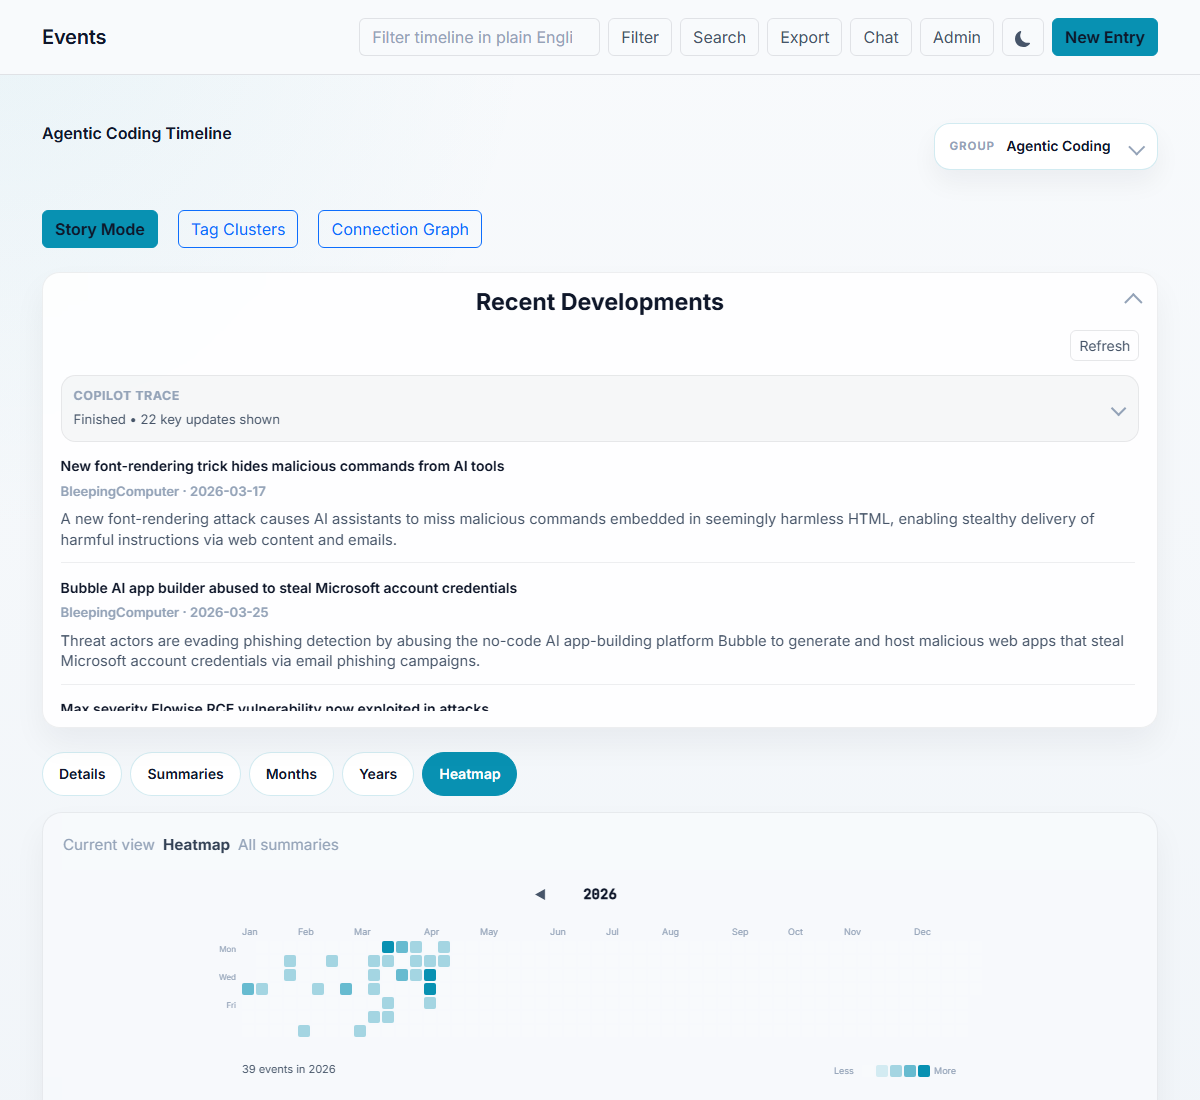
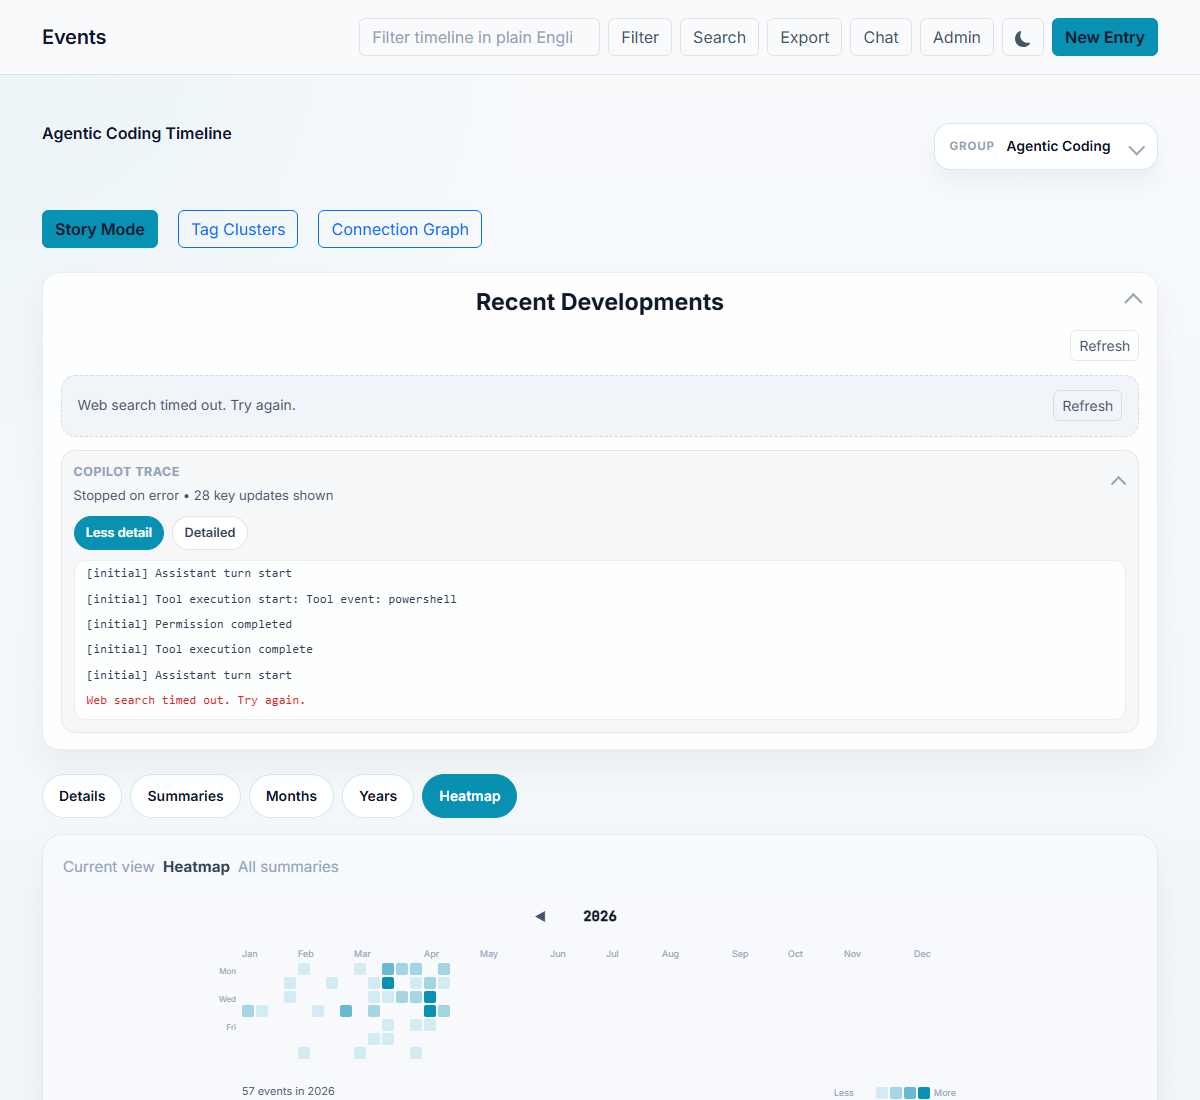
Refactor code structure for improved readability and maintainability

diff --git a/scripts/generate_demo_assets.py b/scripts/generate_demo_assets.py
@@ -67,6 +67,7 @@ FULL_FRAME_NAMES = [
     "18-dark-mode.png",
     "19-story-mode-screen.png",
     "20-story-generated.png",
+    "21-story-presentation-option.png",
 ]
 NO_SEARCH_FRAME_NAMES = [
     "01-home.png",
@@ -86,6 +87,7 @@ NO_SEARCH_FRAME_NAMES = [
     "18-dark-mode.png",
     "19-story-mode-screen.png",
     "20-story-generated.png",
+    "21-story-presentation-option.png",
 ]
 
 
@@ -142,11 +144,17 @@ def wait_for_recent_results(page: Page, timeout_seconds: int = 120) -> None:
     deadline = time.monotonic() + timeout_seconds
     results = page.locator("[data-group-web-search-results] a")
     loading = page.locator("[data-group-web-search-loading]")
+    error = page.locator("[data-group-web-search-error]")
+    empty = page.locator("[data-group-web-search-empty]")
     while time.monotonic() < deadline:
-        if results.count() > 0 and not loading.is_visible():
+        if not loading.is_visible() and (
+            results.count() > 0
+            or error.is_visible()
+            or empty.is_visible()
+        ):
             return
         page.wait_for_timeout(1_000)
-    raise TimeoutError("Timed out waiting for Recent Developments results.")
+    raise TimeoutError("Timed out waiting for Recent Developments to settle.")
 
 
 def wait_for_generated_summary(page: Page, timeout_seconds: int = 120) -> None:
@@ -366,6 +374,12 @@ def capture_assets(page: Page, base_url: str, output_dir: Path) -> list[Path]:
     # 20 - Story generated
     page.locator("[data-story-generate-button]").click(no_wait_after=True)
     wait_for_story_result(page)
+    page.wait_for_timeout(500)
+    save_screenshot(page, output_paths[idx]); idx += 1
+
+    # 21 - Generate presentation option
+    story_deck_cta = page.locator("[data-story-deck-cta]")
+    story_deck_cta.scroll_into_view_if_needed()
     page.wait_for_timeout(500)
     save_screenshot(page, output_paths[idx]); idx += 1
 

diff --git a/tests/test_ai_generate.py b/tests/test_ai_generate.py
@@ -73,6 +73,18 @@ class _FakeCopilotSession:
         self.closed = True
 
 
+class _FakeModernCopilotSession:
+    def __init__(self, response: object) -> None:
+        self.response = response
+        self.prompts: list[str] = []
+        self.timeouts: list[float] = []
+
+    async def send_and_wait(self, prompt: str, *, timeout: float = 60.0) -> object:
+        self.prompts.append(prompt)
+        self.timeouts.append(timeout)
+        return self.response
+
+
 class _FakeDisconnectOnlySession:
     def __init__(self) -> None:
         self.disconnected = False
@@ -387,6 +399,21 @@ class TestCopilotSdkWrapper(unittest.TestCase):
         _run_async(exercise())
 
         self.assertTrue(session.disconnected)
+
+    def test_send_copilot_prompt_supports_string_prompt_signature(self) -> None:
+        session = _FakeModernCopilotSession(response="ok")
+
+        response = _run_async(
+            copilot_runtime.send_copilot_prompt(
+                cast(Any, session),
+                "Reply with ok.",
+                timeout=12.5,
+            )
+        )
+
+        self.assertEqual(response, "ok")
+        self.assertEqual(session.prompts, ["Reply with ok."])
+        self.assertEqual(session.timeouts, [12.5])
 
 
 class TestCopilotChatDraftGenerator(unittest.TestCase):

diff --git a/app/services/copilot_runtime.py b/app/services/copilot_runtime.py
@@ -195,7 +195,21 @@ async def prepare_copilot_resource(
 async def send_copilot_prompt(
     session: CopilotSession, prompt: str, *, timeout: float
 ) -> object:
-    return await session.send_and_wait({"prompt": prompt}, timeout=timeout)
+    send_and_wait = cast(Any, session).send_and_wait
+    try:
+        parameters = tuple(signature(send_and_wait).parameters.values())
+    except (TypeError, ValueError):
+        parameters = ()
+
+    if parameters:
+        if parameters[0].name == "prompt":
+            return await send_and_wait(prompt, timeout=timeout)
+        return await send_and_wait({"prompt": prompt}, timeout)
+
+    try:
+        return await send_and_wait(prompt, timeout=timeout)
+    except TypeError:
+        return await send_and_wait({"prompt": prompt}, timeout)
 
 
 def extract_copilot_message_content(response: object) -> str:
